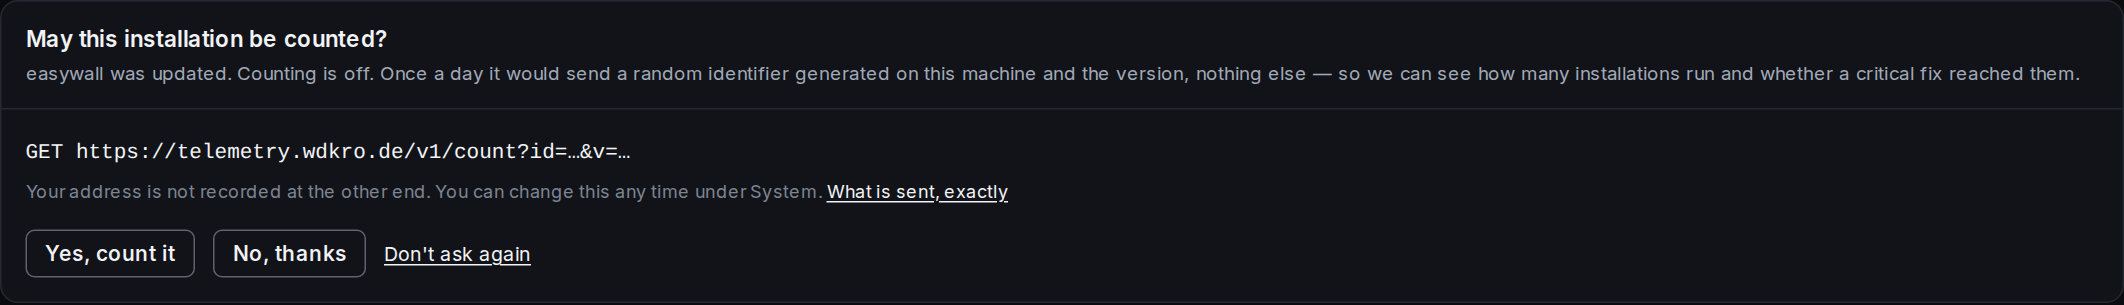
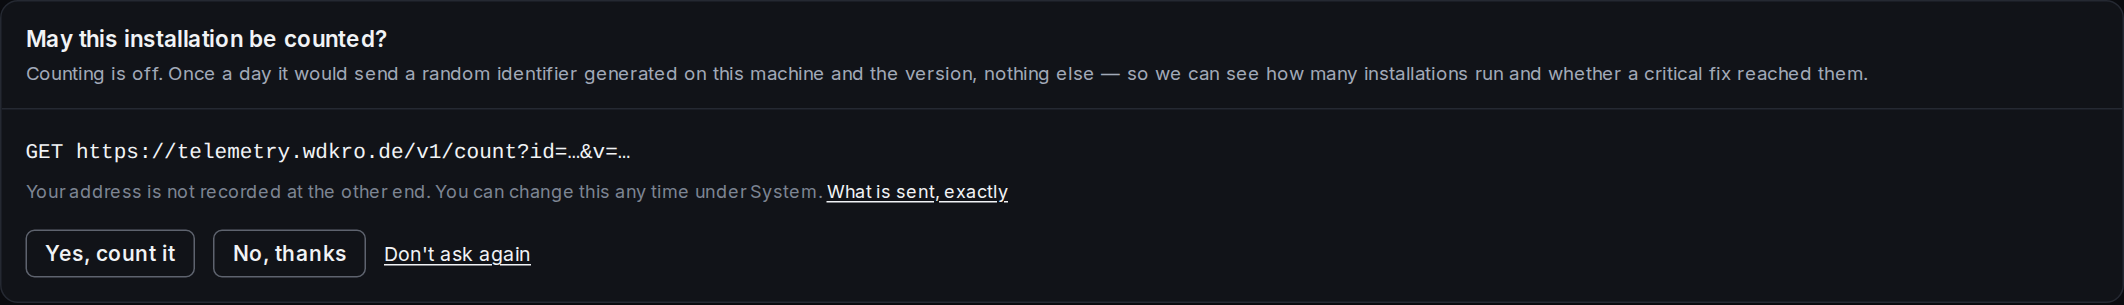
fix(dashboard): a failed answer keeps the card; the question no longer claims an update
The card's outerHTML swap took respondPartialError's empty 200 as success:
an operator whose Yes failed to save saw the card gone. HX-Reswap: none now.
A host set up without the wizard meets the card on its first dashboard, so
the copy no longer opens with "easywall was updated".

Claude-Session: https://claude.ai/code/session_01VdAX68mvVq9BDDXfadTYpK

Changed region(s): [[0.0, 0.2066, 0.9944, 0.2656]]

diff --git a/internal/web/telemetry_prompt.go b/internal/web/telemetry_prompt.go
@@ -104,8 +104,15 @@ func (s *Server) handleTelemetryPromptPOST(w http.ResponseWriter, r *http.Reques
 		http.Error(w, "bad request", http.StatusBadRequest)
 		return
 	}
+	// A refusal must leave the card where it is: the card's outerHTML swap
+	// would otherwise replace it with respondPartialError's empty 200, and an
+	// operator who clicked Yes would see it gone as if it had worked.
+	keepCard := func(flash string) {
+		w.Header().Set("HX-Reswap", "none")
+		s.respondPartialError(w, r, "/", flash)
+	}
 	if s.client.IsDemo() {
-		s.respondPartialError(w, r, "/", "demo_readonly")
+		keepCard("demo_readonly")
 		return
 	}
 
@@ -117,7 +124,7 @@ func (s *Server) handleTelemetryPromptPOST(w http.ResponseWriter, r *http.Reques
 		// question was answered (D9).
 		if err := s.cfg.SaveTelemetry(enabled); err != nil {
 			slog.Warn("could not save the telemetry setting", "error", err)
-			s.respondPartialError(w, r, "/", "save_error")
+			keepCard("save_error")
 			return
 		}
 		slog.Info("telemetry setting changed", "enabled", enabled, "via", "dashboard question")

diff --git a/internal/web/telemetry_prompt_test.go b/internal/web/telemetry_prompt_test.go
@@ -223,6 +223,19 @@ func TestTelemetryPrompt_FailedWrites(t *testing.T) {
 			t.Error("a consent that failed to save left a marker")
 		}
 	})
+	t.Run("htmx keeps the card when the consent fails", func(t *testing.T) {
+		s := promptServer(t)
+		s.cfg.configPath = filepath.Join(t.TempDir(), "missing", "web.toml")
+		req := httptest.NewRequest("POST", "/telemetry/prompt", strings.NewReader("answer=yes"))
+		req.Header.Set("Content-Type", "application/x-www-form-urlencoded")
+		req.Header.Set("HX-Request", "true")
+		req.AddCookie(makeAuthCookie(t, s))
+		rec := httptest.NewRecorder()
+		s.router.ServeHTTP(rec, req)
+		if rec.Header().Get("HX-Reswap") != "none" {
+			t.Errorf("a failed save let htmx swap the card away (HX-Reswap %q)", rec.Header().Get("HX-Reswap"))
+		}
+	})
 	t.Run("marker not written, consent kept", func(t *testing.T) {
 		s := promptServer(t)
 		dir := filepath.Dir(s.cfg.TelemetryPromptPath())

diff --git a/docs-tech/specs/2026-10-15-2.28-an-update-asks-once.md b/docs-tech/specs/2026-10-15-2.28-an-update-asks-once.md
@@ -79,6 +79,6 @@ Every test is seen red by breaking the code it covers.
 ## 6 · Release
 
 2.28.0. After merge and tag, wdk-ansible rolls out. The field check on root01xvp
-confirms the card does **not** appear there, because `EASYWALL_WEB_TELEMETRY` or
-a stored value is set (the check records which), and that the demo shows no
+reads whether the card appears there: it does not when counting is on or
+`EASYWALL_WEB_TELEMETRY` is set, and does when a stored `false` is all there is (the check records which), and that the demo shows no
 card.
